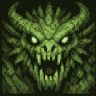
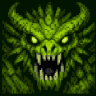
Add files via upload

diff --git a/styles/10-combat.css b/styles/10-combat.css
@@ -649,6 +649,12 @@
     font-weight: 600;
 }
 
+.skill-btn-health-cost {
+    font-size: var(--font-size-xs);
+    color: var(--accent-danger);
+    font-weight: 600;
+}
+
 .skill-btn-element {
     display: inline-block;
     padding: 1px 4px;

diff --git a/styles/07-vasen.css b/styles/07-vasen.css
@@ -684,6 +684,11 @@
     font-weight: 600;
 }
 
+.skill-health-cost {
+    color: var(--accent-danger);
+    font-weight: 600;
+}
+
 .skill-description {
     font-size: var(--font-size-xs);
     color: var(--text-secondary);

diff --git a/js/core/4-data-runes.js b/js/core/4-data-runes.js
@@ -70,7 +70,7 @@ const RUNES = {
         name: 'Gifu',
         fullName: 'Gifu',
         flavor: 'The sacred exchange of powers between equals. The first significant boon received by the wielder is considered a communal gift, extending the effect to all allies.',
-        effect: 'The first time this Väsen\'s attributes are raised during this battle it is also applied to allies',
+        effect: 'When this Väsen\'s attributes are raised it is also applied to allies (once per battle)',
         mechanic: { type: 'share_first_buff' }
     },
     'WYNJA': {
@@ -80,7 +80,7 @@ const RUNES = {
         fullName: 'Wynja',
         flavor: 'The power of success and the protective shield of community. It intercepts hostile curses and transmutes that negative energy into a personal triumph.',
         get effect() {
-            return `Blocks the first negative attribute effect this Väsen receives and raises a random attribute by ${GAME_CONFIG.RUNE_WYNJA_COUNTER_STAGE} stage when it happens`;
+            return `Blocks a debuff and raises a random attribute by ${GAME_CONFIG.RUNE_WYNJA_COUNTER_STAGE} stage when it happens (once per battle)`;
         },
         mechanic: { type: 'block_first_debuff' }
     },

diff --git a/js/core/2-data-skills.js b/js/core/2-data-skills.js
@@ -342,12 +342,13 @@ const ABILITIES = {
         name: 'Tyr\'s Sacrifice',
         flavorDescription: 'Severs a piece of your own vitality to secure a desperate, fateful blessing.',
         get mechanicsDescription() {
-            return `Sacrifices ${Math.round(GAME_CONFIG.TYRS_SACRIFICE_HEALTH_COST * 100)}% of max HP to raise all attributes by ${GAME_CONFIG.TYRS_SACRIFICE_STAGES} stages.`;
+            return `Sacrifices health to raise all attributes by ${GAME_CONFIG.TYRS_SACRIFICE_STAGES} stages.`;
         },
         element: ELEMENTS.WIND,
         type: ATTACK_TYPES.UTILITY,
         power: 0,
         meginCost: 35,
+        healthCost: 0.25,
         effect: { type: 'tyrs_sacrifice' }
     },
 

diff --git a/js/systems/6a-battle-core.js b/js/systems/6a-battle-core.js
@@ -994,7 +994,7 @@ class Battle {
         
         if (effect.type === 'tyrs_sacrifice') {
             // Tyr's Sacrifice: sacrifice 40% max HP to raise all attributes by 3 stages (lethal if HP runs out)
-            const healthCost = Math.floor(user.maxHealth * GAME_CONFIG.TYRS_SACRIFICE_HEALTH_COST);
+            const healthCost = Math.floor(user.maxHealth * skill.healthCost);
             user.currentHealth = Math.max(0, user.currentHealth - healthCost);
             this.addLog(`${user.getDisplayName()} sacrifices ${healthCost} HP</span>!`, 'damage');
 

diff --git a/js/core/1-constants.js b/js/core/1-constants.js
@@ -75,7 +75,6 @@ const GAME_CONFIG = {
     LOKISBETRAYAL_BONUS: 35, // Extra power if target is debuffed
     ROTVALTA_BONUS: 40, // Extra power if opponent attacks
 
-    TYRS_SACRIFICE_HEALTH_COST: 0.25,   // Fraction of current HP sacrificed when using Tyr's Sacrifice
     TYRS_SACRIFICE_STAGES: 2,           // Attribute stages gained to all attributes when using Tyr's Sacrifice
 
     FREYASTEARS_TURNS: 5,               // Number of turns Freya's Tears regen lasts

diff --git a/js/ui/8c-ui-vasen.js b/js/ui/8c-ui-vasen.js
@@ -670,6 +670,7 @@ UIController.prototype.renderSkillsList = function(vasen) {
                         ${this.generateAttackingMatchupsHTML(skillElement)}
                     </div>
                     <span class="skill-cost">Megin: ${meginCost}</span>
+                    ${skill.healthCost ? `<span class="skill-health-cost">Health: ${Math.round(skill.healthCost * 100)}%</span>` : ''}
                     ${skill.power ? `<span class="skill-power">Power: ${getSkillPower(skillName, vasen.species.family)}</span>` : ''}
                     ${skill.initialBonus ? `<span class="skill-initial-bonus">Initial Bonus: ${skill.initialBonus}</span>` : ''}
                 </div>

diff --git a/js/ui/8g-ui-combat.js b/js/ui/8g-ui-combat.js
@@ -431,6 +431,7 @@ UIController.prototype.renderActionButtons = function(battle) {
             <span class="skill-btn-attributes">
                 <span class="skill-btn-element element-${skillElement.toLowerCase()}">${skillElement}</span>
                 <span class="skill-btn-cost">Megin: ${meginCost}</span>
+                ${skill.healthCost ? `<span class="skill-btn-health-cost">Health: ${Math.round(skill.healthCost * 100)}%</span>` : ''}
                 ${skill.power ? `<span class="skill-btn-power">Power: ${getSkillPower(skillName, activeVasen.species.family)}</span>` : ''}
                 ${skill.initialBonus ? `<span class="skill-btn-initialbonus">Initial Bonus: ${skill.initialBonus}</span>` : ''}
             </span>